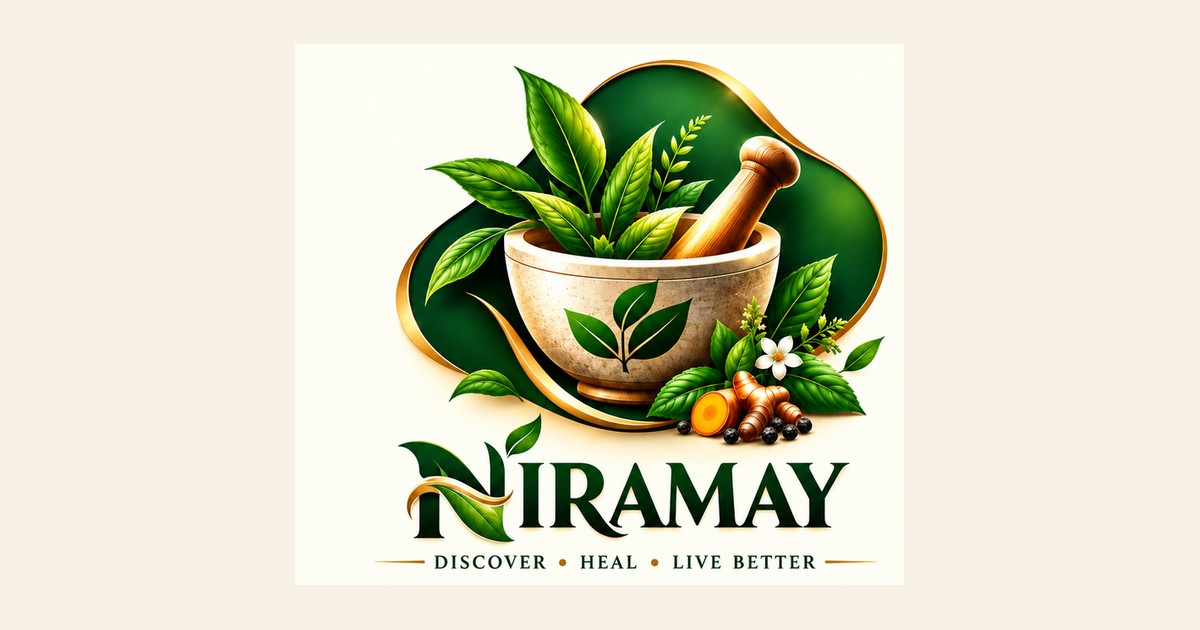
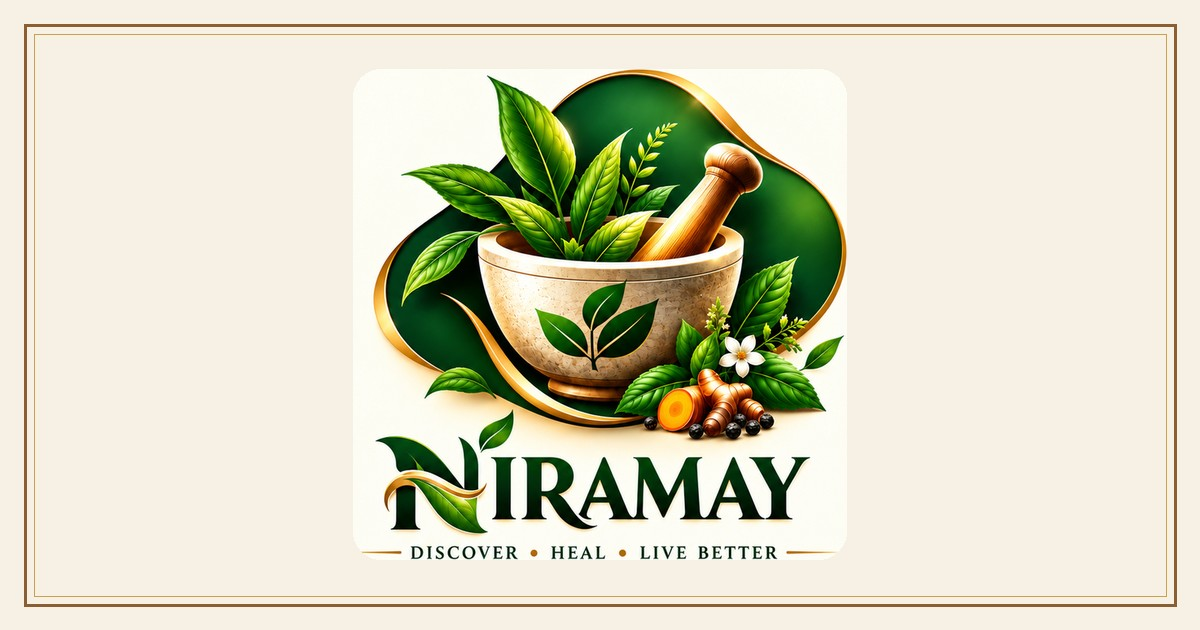
docs: public launch pass — README, CHANGELOG, SECURITY, CI, screenshots, v2.1.0
- Premium README with official branding, feature showcase, real
  screenshots (7 pages, captured from the production build), privacy
  model, safety notice, architecture, tech stack, run/dev docs,
  status, roadmap, credits
- CHANGELOG.md (2.1.0 / 2.0.0 / 1.0.0, factual)
- SECURITY.md (private reporting via security advisories)
- Lightweight CI: install, lint, 115-check test suite, production build
- Social preview recomposed from the official logo lockup
- package.json version -> 2.1.0; metadata.json claims made accurate
- No license added: license decision required (documented in README)
- App functionality untouched

Changed region(s): [[0.3083, 0.0905, 0.74, 0.9048], [0.0, 0.0302, 0.9867, 0.9651]]

diff --git a/components/command/CommandPalette.tsx b/components/command/CommandPalette.tsx
@@ -113,10 +113,13 @@ export const CommandPalette: React.FC = () => {
   useEffect(() => {
     if (isPaletteOpen) {
       restoreFocusRef.current = document.activeElement as HTMLElement | null;
-      setQuery("");
-      setFilter("all");
-      setActiveIndex(0);
-      const t = window.setTimeout(() => inputRef.current?.focus(), 30);
+      const t = window.setTimeout(() => {
+        // reset + focus asynchronously (once open), so no sync state cascade
+        setQuery("");
+        setFilter("all");
+        setActiveIndex(0);
+        inputRef.current?.focus();
+      }, 30);
       return () => window.clearTimeout(t);
     }
     const el = restoreFocusRef.current;
@@ -125,10 +128,6 @@ export const CommandPalette: React.FC = () => {
       try { el.focus({ preventScroll: true }); } catch { /* noop */ }
     }
   }, [isPaletteOpen]);
-
-  useEffect(() => {
-    setActiveIndex(0);
-  }, [query, filter]);
 
   const close = React.useCallback(() => setPaletteOpen(false), [setPaletteOpen]);
 
@@ -216,7 +215,7 @@ export const CommandPalette: React.FC = () => {
             aria-controls="palette-results"
             aria-label={isAs ? "সন্ধান কৰক" : "Search Niramay"}
             value={query}
-            onChange={(e) => setQuery(e.target.value)}
+            onChange={(e) => { setQuery(e.target.value); setActiveIndex(0); }}
             placeholder={
               isAs
                 ? "লক্ষণ, উপচাৰ, গছ, সঁজুলি সন্ধান কৰক…"
@@ -242,7 +241,7 @@ export const CommandPalette: React.FC = () => {
             return (
               <button
                 key={f.id}
-                onClick={() => setFilter(f.id)}
+                onClick={() => { setFilter(f.id); setActiveIndex(0); }}
                 aria-pressed={active}
                 className={`shrink-0 rounded-full px-3 py-1 text-[11px] font-bold border transition ${
                   active

diff --git a/components/command/CommandTrigger.tsx b/components/command/CommandTrigger.tsx
@@ -19,13 +19,13 @@ export const CommandTrigger: React.FC<{ className?: string }> = ({
   const currentMode = mounted ? languageMode : "bilingual";
   const isAs = currentMode === "as";
 
-  const [isMac, setIsMac] = React.useState(false);
-  React.useEffect(() => {
-    setIsMac(
+  /* Lazy client-only probe — the trigger renders identically before mount
+     because the keyboard hint is desktop-only decoration. */
+  const [isMac] = React.useState(
+    () =>
       typeof navigator !== "undefined" &&
-        /mac|iphone|ipad/i.test(navigator.platform || navigator.userAgent)
-    );
-  }, []);
+      /mac|iphone|ipad/i.test(navigator.platform || navigator.userAgent)
+  );
 
   return (
     <button

diff --git a/README.md b/README.md
@@ -1,0 +1,190 @@
+<p align="center">
+  <img src="public/brand/niramay-logo-full.png" alt="Niramay — Traditional Kitchen Remedies" width="320">
+</p>
+
+<h1 align="center">Niramay</h1>
+
+<p align="center"><strong>Traditional Kitchen Remedies</strong></p>
+
+<p align="center">
+  A privacy-first, offline-friendly web app for exploring traditional Assamese and Indian
+  kitchen remedies, medicinal plants, seasonal living guidance, and everyday wellness knowledge —
+  entirely on your device.
+</p>
+
+<p align="center">
+  <a href="https://pdfly-source.github.io/niramay/"><strong>Live Demo</strong></a> ·
+  <a href="https://github.com/PDFly-source/niramay/releases">Releases</a> ·
+  <a href="https://github.com/PDFly-source/niramay/issues">Report an Issue</a>
+</p>
+
+<p align="center">
+  <a href="https://pdfly-source.github.io/niramay/"><img src="https://img.shields.io/badge/Live-published-1B4332" alt="Live"></a>
+  <a href="https://pdfly-source.github.io/niramay/manifest.webmanifest"><img src="https://img.shields.io/badge/PWA-installable-8B5E34" alt="PWA"></a>
+  <img src="https://img.shields.io/badge/TypeScript-strict-2F6E4F" alt="TypeScript">
+  <a href="https://github.com/PDFly-source/niramay/releases"><img src="https://img.shields.io/badge/release-v2.1.0-C9A24B" alt="Latest Release"></a>
+</p>
+
+---
+
+## ✦ What Niramay Offers
+
+| | |
+|---|---|
+| 🔎 **Universal Search** | One command palette (Ctrl+K) searches remedies, symptoms, plants, and tools with typo-tolerant, phonetic matching. |
+| 🌿 **Kitchen Remedies** | Traditional Assamese and Indian household remedies with ingredients, steps, and age-group dosage guidance. |
+| 🌱 **Medicinal Plant Library** | A browsable knowledge bank of medicinal plants with traditional uses and cautions. |
+| 🧭 **Interactive Wellness Tools** | Spice scanner, plant scanner, dosha assessment, Ritucharya seasonal guidance, daily habits, fridge remedy card. |
+| 🤖 **Local AI Assistant** | An intent engine that understands your question — running 100% in your browser, no server, no AI cloud calls. |
+| 🗣 **Trilingual Interface** | English · অসমীয়া · Roman Assamese — including voice input where your browser supports it. |
+| 🚨 **Safety-First Guidance** | Severe-symptom red-flag cues and ingredient cautions are surfaced before any remedy content. |
+| 📱 **Installable PWA** | Add Niramay to your home screen and use it offline. |
+| 🌙 **Light & Dark Mode** | Parchment daylight and ink-green night themes. |
+| 🔒 **Local-First** | No account, no login, no tracking. Your data stays in your browser. |
+
+## Screenshots
+
+| Home | Explore |
+|---|---|
+| <img src="docs/screenshots/home.jpg" alt="Niramay home" width="100%"> | <img src="docs/screenshots/explore.jpg" alt="Explore remedies" width="100%"> |
+
+| Command Palette | AI Assistant |
+|---|---|
+| <img src="docs/screenshots/palette.jpg" alt="Universal command palette" width="100%"> | <img src="docs/screenshots/assistant.jpg" alt="Local AI assistant" width="100%"> |
+
+| Categories | Knowledge Library | Menu |
+|---|---|---|
+| <img src="docs/screenshots/categories.jpg" alt="Remedy categories" width="100%"> | <img src="docs/screenshots/library.jpg" alt="Plant knowledge library" width="100%"> | <img src="docs/screenshots/menu.jpg" alt="Settings and languages" width="100%"> |
+
+## Why Niramay?
+
+- **Rooted in Assamese culture.** Remedies are written for Assamese households first — the interface, search, and AI assistant all understand অসমীয়া and Roman Assamese, not just English.
+- **Designed for everyday access.** A kitchen-shelf approach: find a remedy, check an ingredient, follow a step — in under a minute, on a low-end phone.
+- **Local-first philosophy.** Everything runs in the browser. No accounts, no cloud database, no analytics.
+- **Traditional knowledge, organized.** Scattered household wisdom — kadhas, spice pastes, seasonal routines — presented as a structured, searchable reference.
+- **Safety-first interaction design.** Educational content is clearly separated from emergency guidance; severe-symptom cues always take priority.
+
+## How It Works
+
+```text
+        User
+         │
+         ▼
+  Niramay Web App (Next.js static export)
+         │
+         ▼
+  Local search · knowledge engine · intent matching
+  (runs entirely in the browser)
+         │
+         ▼
+  Browser storage (localStorage) · PWA offline cache
+```
+
+Niramay is a fully static web app. There is **no backend server, no database, and no external AI service**. Search, the AI assistant, and all tools run locally in your browser; preferences and saved items are stored in `localStorage`; the PWA cache serves the app offline.
+
+## Privacy by Design
+
+- **No account or login.** Nothing to sign up for.
+- **No cloud database.** All remedy and plant content ships inside the app.
+- **No analytics or tracking.** The app makes no telemetry calls.
+- **Browser storage only.** Saved remedies, preferences, and logs live in your browser's `localStorage`. Clearing site data removes them permanently.
+- **Voice input is optional.** If you use voice, your browser's speech-recognition API requires microphone permission; you can decline and type instead. (Speech support depends on your browser.)
+- **Offline by default.** After the first visit, the PWA serves from cache.
+
+## Important Safety Notice
+
+> **Niramay provides educational information about traditional household practices and wellness knowledge. It is not a substitute for diagnosis, treatment, or professional medical advice.**
+>
+> - In an emergency, contact your local emergency services immediately.
+> - Seek professional medical advice for severe, persistent, or worsening symptoms — the app will remind you of the same.
+> - Age-group dosage guidance is general educational information, never personalized medical advice.
+> - Traditional practices are cultural knowledge, not clinically verified treatments.
+
+## Built With
+
+- [Next.js](https://nextjs.org) (static export) · [React](https://react.dev) · [TypeScript](https://www.typescriptlang.org)
+- [Tailwind CSS](https://tailwindcss.com) · [Framer Motion](https://motion.dev) · [lucide-react](https://lucide.dev)
+- [Zustand](https://zustand.docs.pmnd.rs) (local state) · [Fuse.js](https://fusejs.io) (fuzzy search) · [Zod](https://zod.dev)
+- PWA (custom service worker) · deployed on [GitHub Pages](https://pages.github.com)
+
+## Run Locally
+
+```bash
+git clone https://github.com/PDFly-source/niramay.git
+cd niramay
+npm install
+npm run dev
+```
+
+Then open the printed local URL (development serves at the site root).
+
+For a production build with the `/niramay` base path used by GitHub Pages:
+
+```bash
+NEXT_PUBLIC_BASE_PATH=/niramay npm run build
+npx serve out
+```
+
+### Install as a PWA
+
+Visit the [live app](https://pdfly-source.github.io/niramay/) in a supported browser and choose **Install app** / **Add to Home Screen** from the browser menu. Niramay then works offline like a native app.
+
+## Development
+
+| Command | Purpose |
+|---|---|
+| `npm run dev` | Development server |
+| `npm run build` | Production static build (includes type checking) |
+| `npm run lint` | ESLint |
+| `npm run test:ai` | AI engine test suite (115 checks) |
+
+## Project Status
+
+**Current release:** Niramay 2.1.0 — Public Release
+
+| Check | Status |
+|---|---|
+| TypeScript | PASS |
+| Production build | PASS |
+| AI engine tests | 115/115 PASS |
+| Browser QA (navigation, search, AI, dark mode, responsive) | PASS |
+| Physical device QA | Not yet performed |
+
+## Roadmap
+
+### Completed
+- [x] Core wellness knowledge experience (remedies, plants, categories, symptoms)
+- [x] Multilingual search — English / অসমীয়া / Roman Assamese
+- [x] Universal command palette (Ctrl+K)
+- [x] Local AI assistant with safety-first red-flag handling
+- [x] Installable PWA with offline support
+- [x] Official Niramay visual identity, light & dark mode
+- [x] Responsive mobile-first UX
+- [x] Interactive wellness tools (dosha, Ritucharya, scanners, habits)
+
+### Planned
+- [ ] Physical-device QA pass (voice input, Android keyboard behavior)
+- [ ] More medicinal plants and regional remedy variations
+- [ ] Deeper offline ingredient-scanner guidance
+- [ ] Print-friendly remedy formats
+
+## Contributing
+
+Issues and suggestions are welcome via the [issue tracker](https://github.com/PDFly-source/niramay/issues). Please keep reports factual and include steps to reproduce.
+
+## License
+
+**No license has been chosen yet.** Until a license file is added, the repository owner retains all rights and the code should not be treated as open-source, even though the repository and the live app are publicly accessible.
+
+## Credits
+
+- The traditional Assamese and Indian household knowledge this app organizes, carried by generations of home practitioners.
+- Built with open-source tools: Next.js, React, Tailwind CSS, Framer Motion, Zustand, and Fuse.js.
+
+---
+
+**Niramay** · Traditional Kitchen Remedies
+
+*Built with care for everyday learning and exploration.*
+
+[Live Demo](https://pdfly-source.github.io/niramay/) · [GitHub](https://github.com/PDFly-source/niramay) · [Releases](https://github.com/PDFly-source/niramay/releases) · [Issues](https://github.com/PDFly-source/niramay/issues)

diff --git a/CHANGELOG.md b/CHANGELOG.md
@@ -1,0 +1,74 @@
+# Changelog
+
+All notable changes to Niramay are documented here.
+This project follows [Semantic Versioning](https://semver.org).
+
+## [2.1.0] — 2026-09-30
+
+### Added
+- Safety-first red-flag detection in the AI engine: severe-symptom cues
+  (intense pain, bleeding, breathing distress, symptoms persisting >3 days)
+  are detected **before** any intent or entity matching and always take priority.
+- Explicit confidence levels (high / medium / low / unknown) on every AI response.
+- New symptom coverage: গলা / gola (throat) queries, digestion meta-queries,
+  and a nausea & vomiting-urge category.
+- New verified knowledge entities: Neem, Ghritakumari (Aloe Vera),
+  Pudina (Field Mint), and Jeera (Cumin).
+- "Search Niramay" action for unknown queries — hands off from the AI
+  assistant to the universal command palette.
+- Smart scroll in the AI assistant: auto-scroll when near the bottom,
+  with a "New response ↓" pill when reading older messages.
+- Voice-input graceful states: explicit permission-denied and
+  unsupported-browser messages; text input always remains available.
+- CHANGELOG.md, professional README, SECURITY.md, CI workflow, and
+  real product screenshots.
+
+### Improved
+- Typo tolerance: repeated-character collapse ("gingerrr" → "ginger")
+  and additional curated Roman Assamese variants (adaa, pett, bis, zor,
+  tuloxi, golaw, golar).
+- Command palette ranking is now tiered: title match → synonym/phonetic
+  tier → description match, with 120 ms input debouncing.
+- AI responses are structured into clear sections: Available Niramay
+  content, Next steps, and follow-up suggestions — each chip runs a real query.
+- Accessibility: chat stream announced via `aria-live`, Escape closes
+  modals, focus is trapped inside dialogs, and initial focus lands on the input.
+- Search index and README/social preview use the official brand artwork only.
+
+### Fixed
+- Honest fallback for out-of-domain questions: no invented remedies,
+  with working Explore actions instead of dead links.
+- Keyboard-scroll race condition when the assistant opens from a
+  queued quick prompt.
+- Two React 19 strict-mode lint violations in the command palette and
+  search trigger (no behavior change).
+
+### Quality
+- TypeScript: PASS · Production build: PASS · 0 console errors
+- AI engine test suite expanded to **115/115 passing**, including a
+  full English / অসমীয়া / Roman Assamese / mixed / typo query matrix,
+  red-flag precedence tests, and a route audit of every AI action link.
+
+### Known Limitations
+- Physical Android/iOS device QA (voice input, on-screen keyboard
+  behavior) has **not** been performed — browser-simulated QA only.
+- Search results are presented in one ranked list (with type filters)
+  rather than visually grouped sections.
+- No license has been chosen yet for the repository.
+
+## [2.0.0] — 2026-09-30
+
+### Added
+- Local AI intent engine: navigation, plant/symptom/remedy intents, and
+  natural-language queries in English, অসমীয়া, and Roman Assamese.
+- Universal command palette (Ctrl+K) across remedies, symptoms, plants,
+  and tools.
+- Smart navigation layer with trilingual intent detection.
+
+## [1.0.0] — 2026-09-29
+
+### Added
+- Initial public build: kitchen remedies, medicinal plant library,
+  categories, symptoms, wellness tools (spice scanner, plant scanner,
+  dosha assessment, Ritucharya, daily habits, fridge card),
+  installable PWA, official Niramay branding, light/dark mode.

diff --git a/SECURITY.md b/SECURITY.md
@@ -1,0 +1,29 @@
+# Security Policy
+
+## Reporting a Vulnerability
+
+If you discover a security issue in Niramay, please report it **privately**
+through [GitHub security advisories](https://github.com/PDFly-source/niramay/security/advisories/new)
+so maintainers can assess and fix it before public disclosure.
+
+Please **do not** open a public issue containing:
+- working proof-of-concept exploits,
+- user data or private credentials,
+- anything that could enable attacks against live users.
+
+## Scope Notes
+
+Niramay is a fully static, client-side application:
+
+- There is no backend server, database, or authentication system.
+- The app stores data only in the browser's `localStorage`.
+- No secrets, API keys, or service credentials are bundled in the app
+  (the local AI engine runs entirely in the browser).
+
+Reports about dependency vulnerabilities, service-worker caching issues,
+or content-injection risks in user-generated strings are welcome.
+
+## Responsible Disclosure
+
+Please allow a reasonable amount of time for a fix before any public
+disclosure. We will credit reporters in release notes when they wish.
